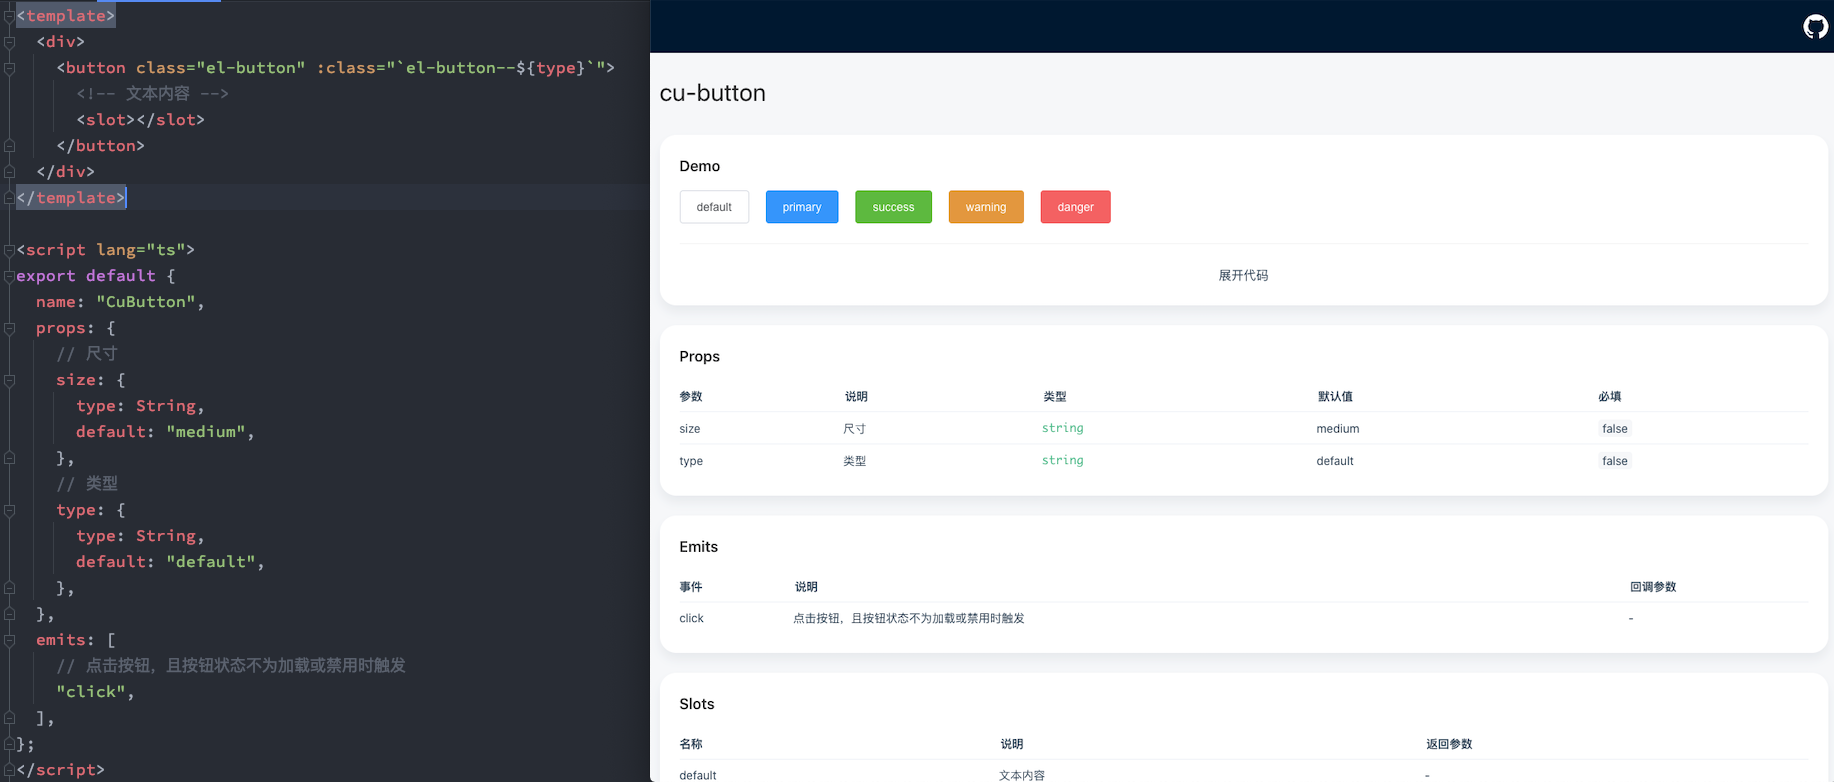
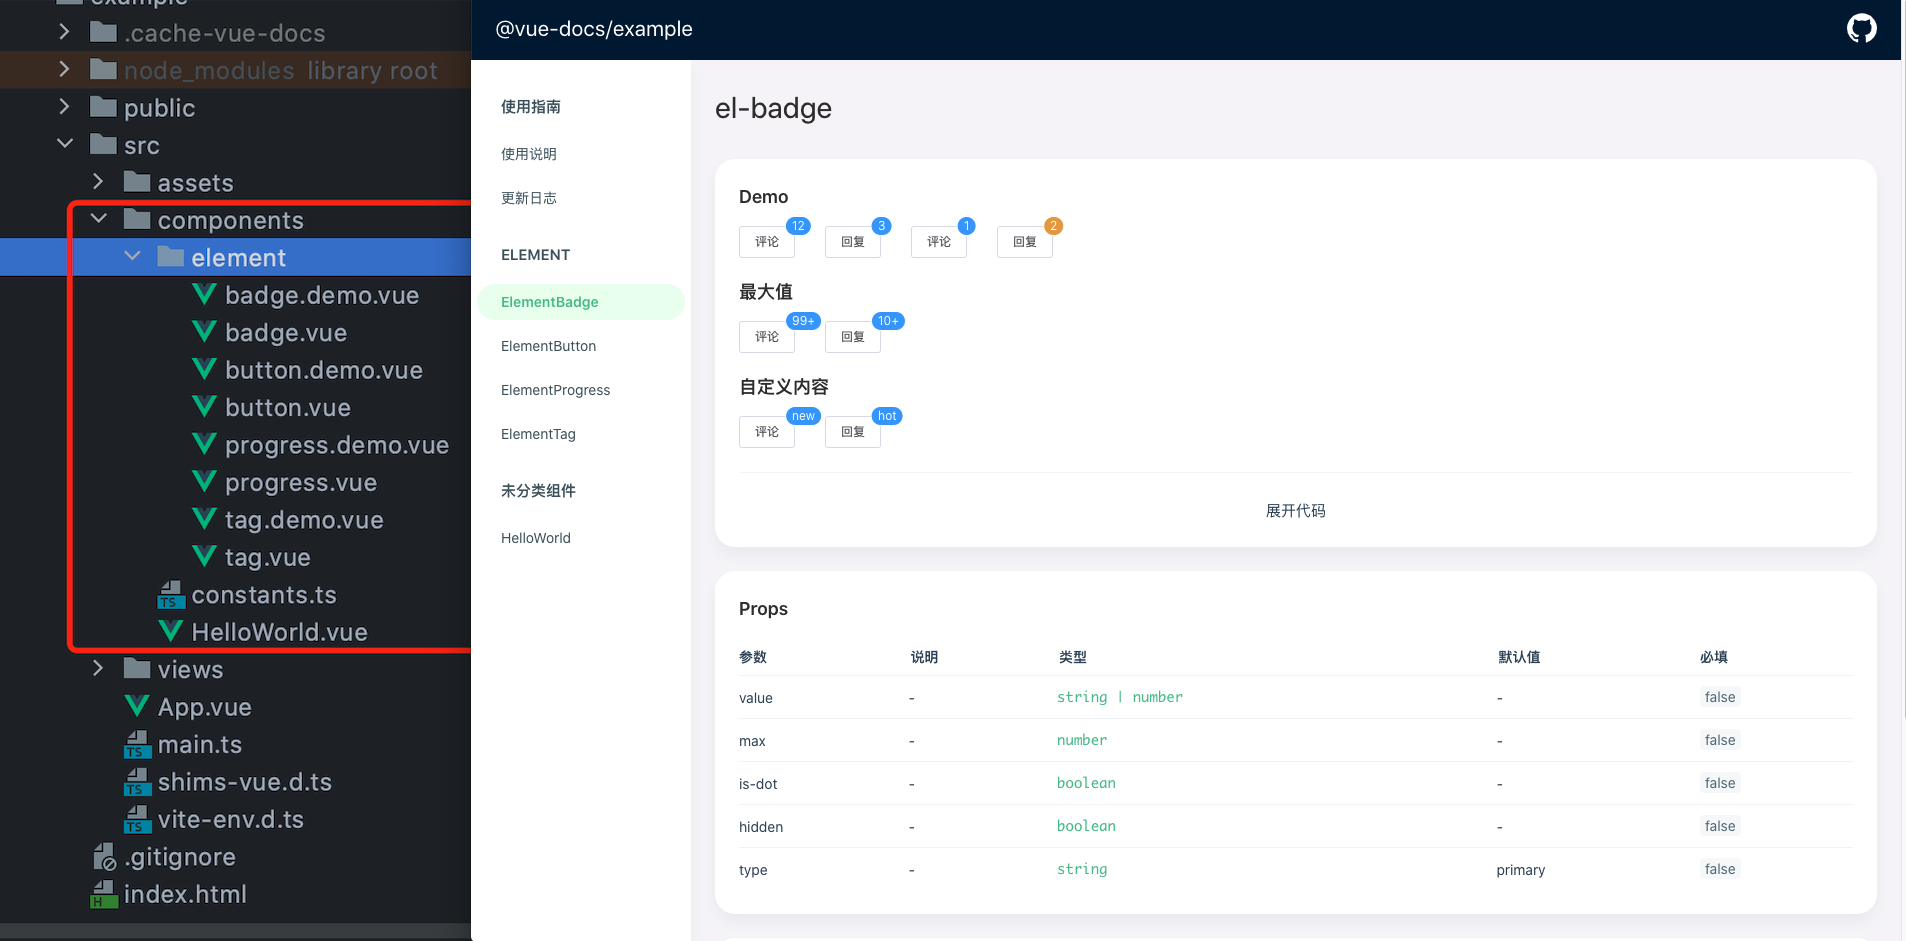
feat: #7 左侧菜单栏，根据文件结构分类

diff --git a/packages/vue-docs/src/route.ts b/packages/vue-docs/src/route.ts
@@ -4,6 +4,7 @@ import { RenderData } from "./type";
 import { ViteDevServer } from "vite";
 import * as fs from "fs";
 import Cache from "./cache";
+import { string } from "fast-glob/out/utils";
 
 // 子组件
 export interface Route {
@@ -46,7 +47,7 @@ class DocsRoute {
     if (config.showUse) {
       this.route = {
         "@vite-plugin-vue-docs/readme": {
-          path: "/",
+          path: "",
           name: "VueDocsReadme-使用说明",
           file: config.templateDir + "/Readme.vue",
           component: `() => import('${config.templateDir}/Readme.vue')`,
@@ -129,7 +130,7 @@ class DocsRoute {
 
     if (fs.existsSync(demoFile)) {
       route.demo = this.getRouteDemo(route, demoFile);
-      debug.route("add demo %O", route.demo);
+      // debug.route("add demo %O", route.demo);
     }
 
     const cacheDir = Cache.childFile(this.config, route);
@@ -219,8 +220,6 @@ class DocsRoute {
         : demoImports.join(";\n") + ";\n"
     }`;
 
-    debug.route("demo import code %s", code);
-
     debug.route(
       "demo plugin",
       `export function initVueDocsDemo(Vue) {${
@@ -246,20 +245,25 @@ class DocsRoute {
     const config = this.config;
     const routes = this.toArray();
 
-    const componentRoute: NavRouteData[] = [];
     const defaultRoute: NavRouteData[] = [];
+    const componentRoutes: { [key: string]: NavRouteData[] | [] } = {};
 
     routes.map((item) => {
+      const path = config.base + item.path;
+      // 默认路由
       if (item.name.includes("VueDocs")) {
         defaultRoute.push({
           name: item.name.split("-")[1],
-          path: config.base + item.path,
+          path,
         });
       } else {
-        componentRoute.push({
+        const temp = path.split("/");
+        const d: NavRouteData[] = componentRoutes[temp[2]] || [];
+        d.push({
           name: item.name,
-          path: config.base + item.path,
+          path,
         });
+        componentRoutes[temp[2]] = d;
       }
     });
 
@@ -270,20 +274,27 @@ class DocsRoute {
       });
     }
 
-    navs.push({
-      title: "组件",
-      data: componentRoute,
-    });
+    const otherClassify: NavRoute = {
+      title: "未分类组件",
+      data: [],
+    };
 
-    debug.route(
-      "生成导航 %O",
-      routes.map((item) => {
-        return {
-          name: item.name,
-          path: config.base + item.path,
-        };
-      })
-    );
+    for (const key in componentRoutes) {
+      const data = componentRoutes[key];
+      if (data.length <= 1) {
+        otherClassify.data.push(data[0]);
+      } else {
+        navs.push({
+          title: key.toUpperCase(),
+          data: data,
+        });
+      }
+    }
+
+    navs.push(otherClassify);
+
+    debug.route("生成导航 %O", navs);
+
     return navs;
   }
 

diff --git a/packages/vue-docs/src/cache.ts b/packages/vue-docs/src/cache.ts
@@ -18,8 +18,6 @@ function createLayout(config: Config, route: DocsRoute): void {
   }
 
   const navs = route.toNavRouteData();
-  debug.cache("createLayout 组件 %O", navs[1].data);
-  debug.cache("createLayout 使用指南 %O", navs[0].data);
   // 不使用模板引擎，直接使用标志的方式替换掉
   const layout = fs
     .readFileSync(`${layoutDir}`, "utf-8")

diff --git a/README.en.md b/README.en.md
@@ -11,7 +11,7 @@ Parse `.vue` files and automatically generate corresponding documents.
 
 **English** | [中文](./README.md)
 
-![preview](./preview.png)
+![preview](./preview.jpg)
 
 ## Features
 

diff --git a/README.md b/README.md
@@ -33,7 +33,7 @@
 
 [English](./README.md) | **中文**
 
-![preview](./preview.png)
+![preview](./preview.jpg)
 
 ## 特点
 
